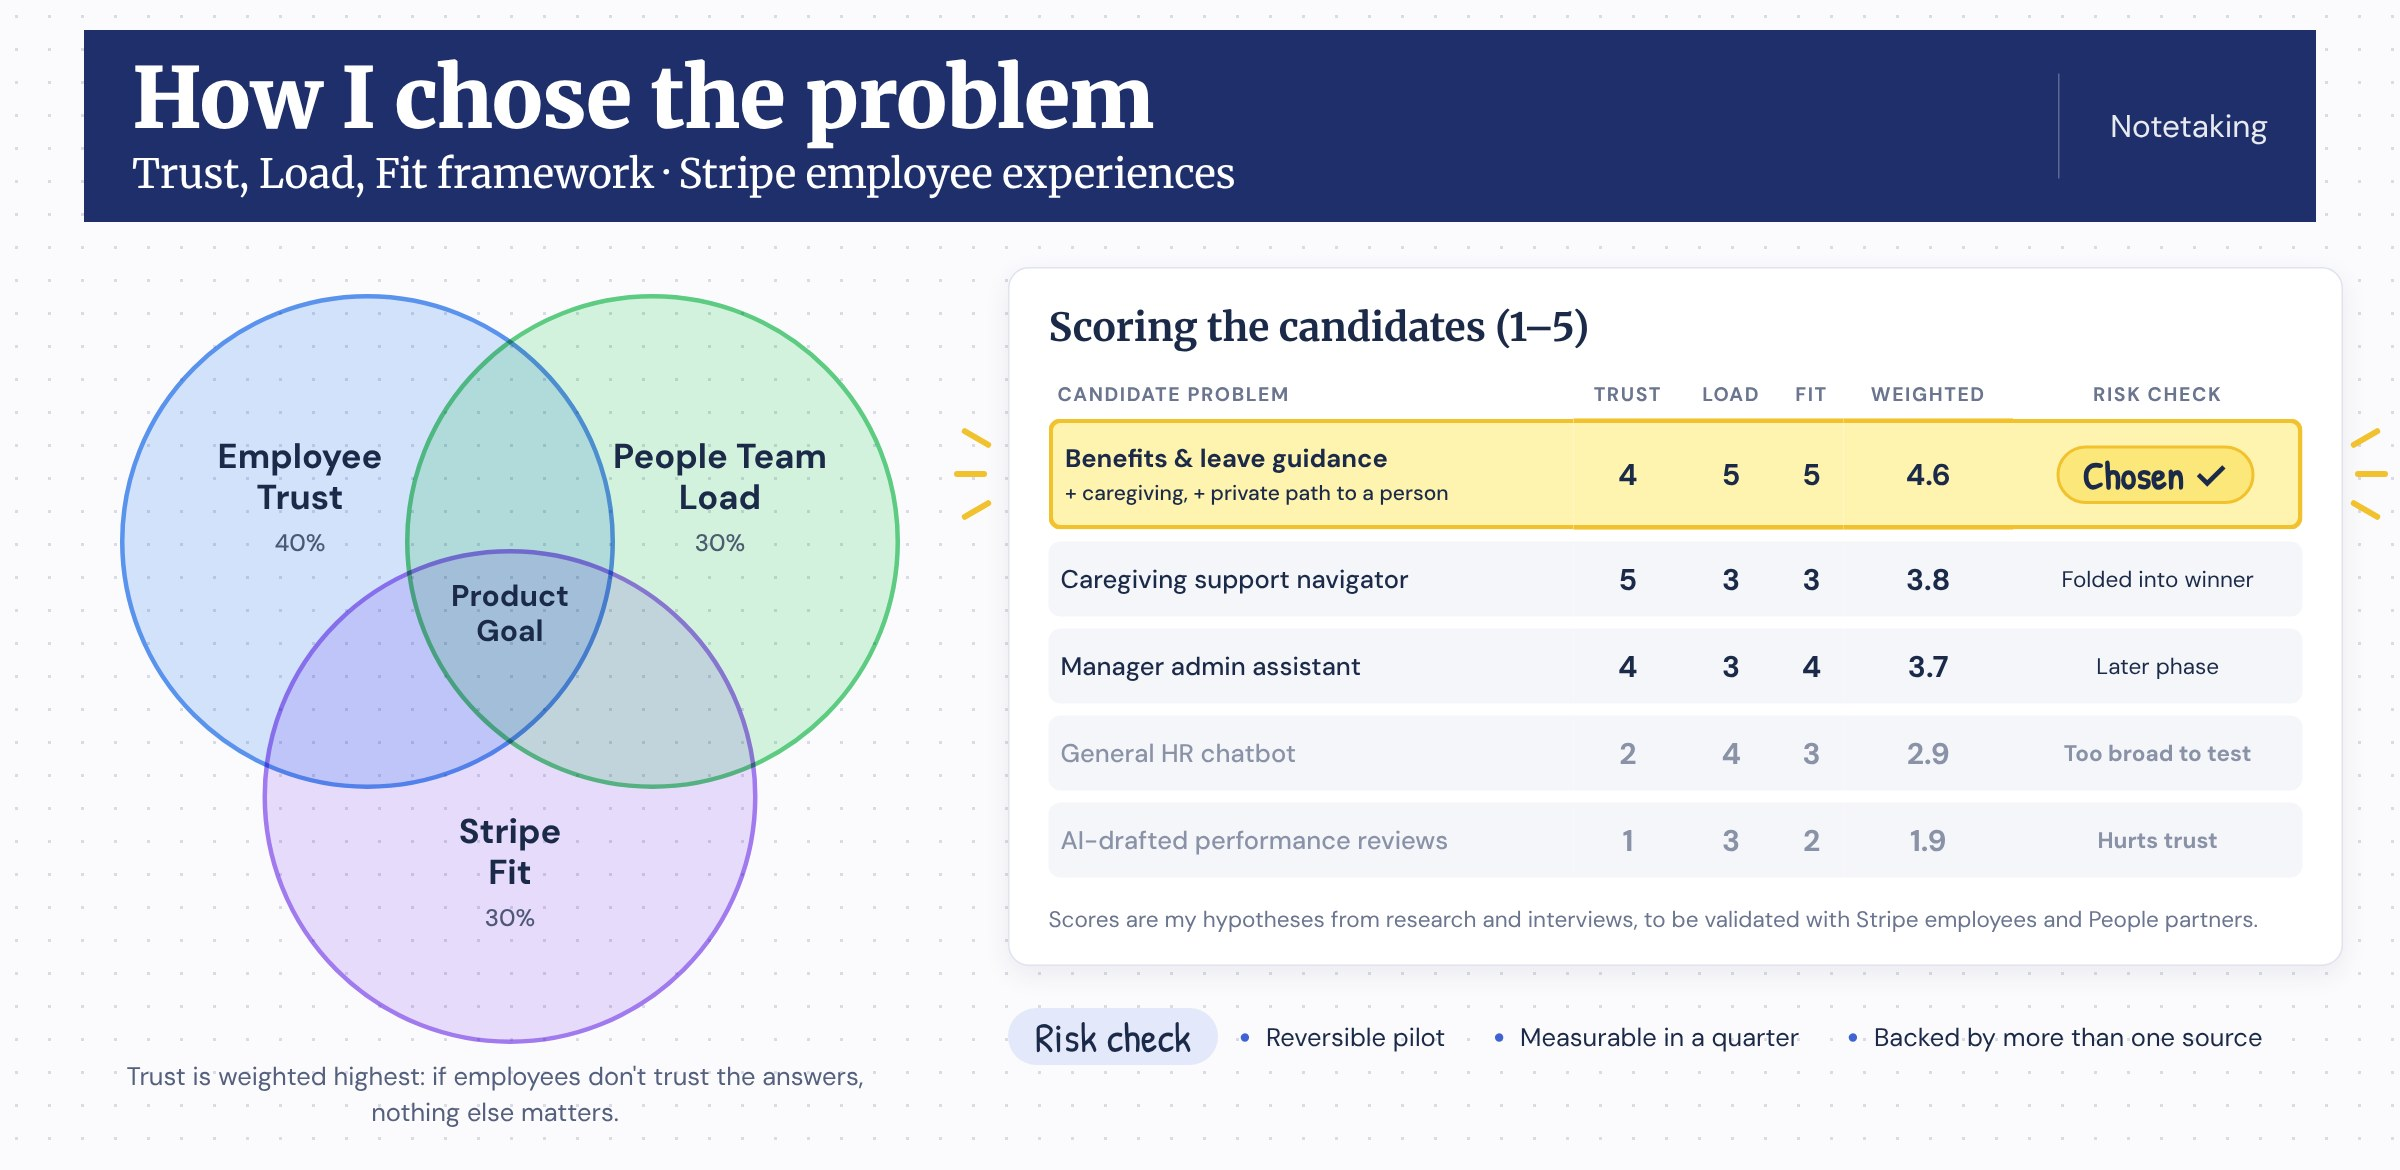
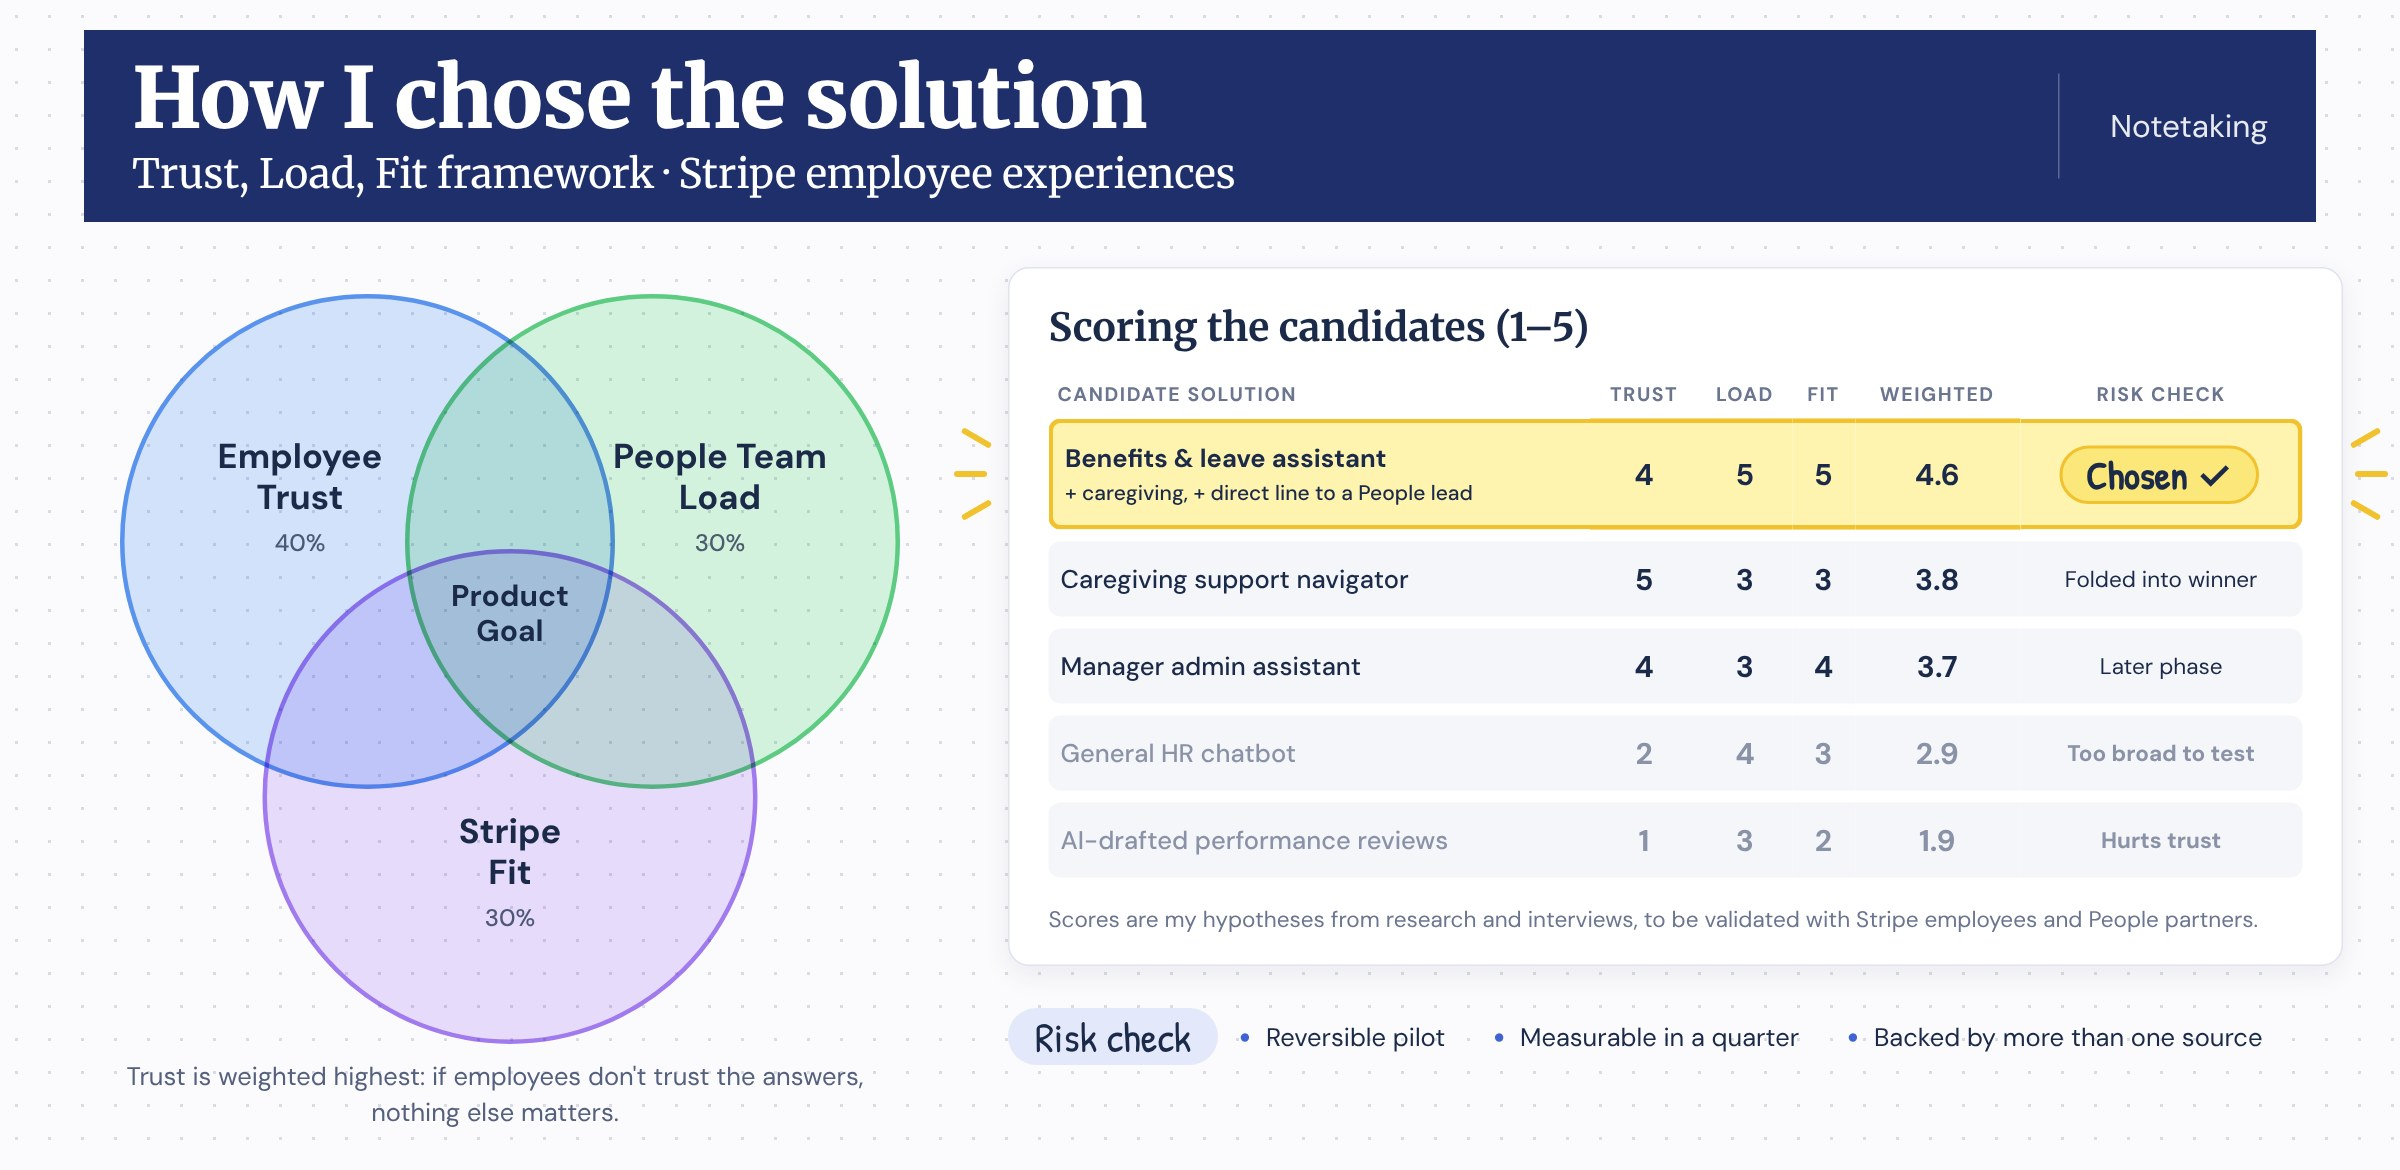
Separate problem (research board) from solution (framework) in Stripe draft
Claude-Session: https://claude.ai/code/session_01XF7k1YqiAUVVFY4gitzFxY

diff --git a/stripe.html b/stripe.html
@@ -44,7 +44,7 @@ a{color:#FDF6DC}a:hover{color:#F4AE55}
 <div style="display: flex; align-items: center; justify-content: space-between; gap: 56px; flex-wrap: wrap">
 <div style="display: flex; flex-direction: column; gap: 14px; max-width: 760px; flex: 1 1 480px">
 <span style="font-family: 'DM Sans', sans-serif; font-size: 13px; font-weight: 700; letter-spacing: 0.14em; text-transform: uppercase; color: #F4AE55">PRODUCT STRATEGY CASE STUDY</span>
-<h1 style="margin: 0; font-family: 'Instrument Serif', serif; font-weight: 400; font-size: 56px; line-height: 1.05">Trustworthy People answers for employees, and a private path when it matters</h1>
+<h1 style="margin: 0; font-family: 'Instrument Serif', serif; font-weight: 400; font-size: 56px; line-height: 1.05">Trustworthy People Team answers for employees, and a private path when it matters</h1>
 </div>
 <figure style="margin: 0; flex: 0 0 auto"><img src="images/stripe/cover.jpg" alt="Two colleagues working together on a laptop on bright, cushioned stadium seating in an office" width="324" height="405" style="display: block; width: 324px; max-width: 100%; height: auto; aspect-ratio: 432 / 540; border-radius: 16px; box-shadow: 0 18px 40px rgba(10,25,45,0.35)"></figure>
 </div>
@@ -68,7 +68,7 @@ a{color:#FDF6DC}a:hover{color:#F4AE55}
 
 <h2 style="margin: 56px 0 0; display: flex; gap: 20px; align-items: baseline; font-family: 'DM Sans', sans-serif; font-weight: 500; font-size: 34px; line-height: 1.2; color: #2E5A81"><span style="font-family: 'Instrument Serif', serif; font-weight: 400; font-size: 44px; color: #C8403F">02</span>Research signals</h2>
 <p style="margin: 0; font-size: 20px; line-height: 1.75; color: #1F3F5C">I pulled from SHRM, Gartner, Korn Ferry, and several workplace surveys. I interviewed three people: a claims specialist at a healthcare billing company in Chicago, a marketing operations manager at an IT company in Germany, and a battalion chief who manages about 250 people at a public-sector fire department. I also wrote 11 simulated employee personas to form hypotheses. I put each signal on a sticky note, color-coded by source, and sorted until patterns showed up.</p>
-<figure style="margin: 12px 0; display: flex; flex-direction: column; gap: 10px"><img src="images/stripe/research-board.jpg" alt="Research board of sticky notes sorted into how employees look for help: checks online first, goes straight to a person, or holds back and goes outside. Additional signals lead to two problem areas, answers people can rely on and safe to ask, and a prioritized problem: employees need trustworthy answers on benefits and leave, plus a private path to a person." width="2400" height="1350" style="width: 100%; height: auto; display: block; border-radius: 12px; border: 1px solid #E6DDCB"></figure>
+<figure style="margin: 12px 0; display: flex; flex-direction: column; gap: 10px"><img src="images/stripe/research-board.jpg" alt="Research board of sticky notes sorted into how employees look for help: checks online first, goes straight to a person, or holds back and goes outside. Additional signals lead to two problem areas, answers people can rely on and safe to ask, and a prioritized problem: employees can't easily get trustworthy benefits and leave answers, or privately reach the right person." width="2400" height="1290" style="width: 100%; height: auto; display: block; border-radius: 12px; border: 1px solid #E6DDCB"></figure>
 <p style="margin: 0; font-size: 20px; line-height: 1.75; color: #1F3F5C">The clearest pattern was how people look for help:</p>
 <ul style="margin: 0; padding-left: 24px; display: flex; flex-direction: column; gap: 12px; font-size: 20px; line-height: 1.75; color: #1F3F5C"><li><strong>Checks online first:</strong> looks it up, and only contacts a person if that fails. They need answers they can trust are current.</li><li><strong>Goes straight to a person:</strong> emails or files a ticket right away. They need to reach the right person without being bounced between teams.</li><li><strong>Holds back or goes outside:</strong> avoids asking HR because they're worried who will find out. They need a private way to ask.</li></ul>
 <p style="margin: 0; font-size: 20px; line-height: 1.75; color: #1F3F5C">The secondary research backed this up. Employees resolve only about half of their HR needs on their own, and only 42% trust their employer to use AI in a way that benefits them.</p>
@@ -77,12 +77,13 @@ a{color:#FDF6DC}a:hover{color:#F4AE55}
 <p style="margin: 0; font-size: 20px; line-height: 1.75; color: #1F3F5C">Her magic wand was more transparency about how things work inside the company.</p>
 <p style="margin: 0; font-size: 20px; line-height: 1.75; color: #1F3F5C">The battalion chief mostly contacts HR about his people: personnel records, payroll checks, and leave cases. He emails on purpose, so there's a record. All three drew the same line for AI: facts, rules, and simple lookups are fine, but a person should handle anything specific to their situation. As the chief put it, “people have people problems.”</p>
 <p style="margin: 0; font-size: 20px; line-height: 1.75; color: #1F3F5C">Because my real sample is small, I treat the simulated findings as directional until I can test them with more people.</p>
+<p style="margin: 0; font-size: 20px; line-height: 1.75; color: #1F3F5C">That led me to one problem: <strong>Employees can't easily get trustworthy answers to benefits and leave questions, or privately reach the right person when the topic is sensitive.</strong></p>
 
-<h2 style="margin: 56px 0 0; display: flex; gap: 20px; align-items: baseline; font-family: 'DM Sans', sans-serif; font-weight: 500; font-size: 34px; line-height: 1.2; color: #2E5A81"><span style="font-family: 'Instrument Serif', serif; font-weight: 400; font-size: 44px; color: #C8403F">03</span>Narrowing the problem: a framework</h2>
-<p style="margin: 0; font-size: 20px; line-height: 1.75; color: #1F3F5C">I scored five candidate problems on three lenses: employee trust, People team workload, and fit with Stripe's goals. Trust gets the most weight, because if employees don't trust the answers, nothing else matters. Every candidate also had to pass a risk check: a reversible pilot, measurable within a quarter, and backed by more than one source.</p>
-<figure style="margin: 12px 0; display: flex; flex-direction: column; gap: 10px"><img src="images/stripe/framework.jpg" alt="Trust, Load, Fit framework: a Venn diagram of Employee Trust (40%), People Team Load (30%), and Stripe Fit (30%), next to a scorecard. Benefits and leave guidance scores highest at 4.6 and is highlighted as chosen. A general HR chatbot and AI-drafted performance reviews are rejected." width="2400" height="1170" style="width: 100%; height: auto; display: block; border-radius: 12px; border: 1px solid #E6DDCB"></figure>
+<h2 style="margin: 56px 0 0; display: flex; gap: 20px; align-items: baseline; font-family: 'DM Sans', sans-serif; font-weight: 500; font-size: 34px; line-height: 1.2; color: #2E5A81"><span style="font-family: 'Instrument Serif', serif; font-weight: 400; font-size: 44px; color: #C8403F">03</span>Choosing a solution: a framework</h2>
+<p style="margin: 0; font-size: 20px; line-height: 1.75; color: #1F3F5C">With the problem clear, I scored five possible solutions on three lenses: employee trust, People team workload, and fit with Stripe's goals. Trust gets the most weight, because if employees don't trust the answers, nothing else matters. Every candidate also had to pass a risk check: a reversible pilot, measurable within a quarter, and backed by more than one source.</p>
+<figure style="margin: 12px 0; display: flex; flex-direction: column; gap: 10px"><img src="images/stripe/framework.jpg" alt="How I chose the solution: a Trust, Load, Fit Venn diagram (Employee Trust 40%, People Team Load 30%, Stripe Fit 30%) next to a scorecard of five candidate solutions. A benefits and leave assistant scores highest at 4.6 and is chosen. A general HR chatbot and AI-drafted performance reviews are rejected." width="2400" height="1170" style="width: 100%; height: auto; display: block; border-radius: 12px; border: 1px solid #E6DDCB"></figure>
 <p style="margin: 0; font-size: 20px; line-height: 1.75; color: #1F3F5C">The rejected options mattered as much as the winner. A general HR chatbot was too broad to test well, and AI-drafted performance reviews would save time but hurt trust.</p>
-<p style="margin: 0; font-size: 20px; line-height: 1.75; color: #1F3F5C">That led me to one problem: <strong>Employees need trustworthy answers to benefits and leave questions, and a private way to reach a person when the topic is sensitive.</strong></p>
+<p style="margin: 0; font-size: 20px; line-height: 1.75; color: #1F3F5C">That pointed to one clear direction: <strong>a benefits and leave assistant for routine questions, with a direct line to a People lead for anything sensitive.</strong></p>
 
 <h2 style="margin: 56px 0 0; display: flex; gap: 20px; align-items: baseline; font-family: 'DM Sans', sans-serif; font-weight: 500; font-size: 34px; line-height: 1.2; color: #2E5A81"><span style="font-family: 'Instrument Serif', serif; font-weight: 400; font-size: 44px; color: #C8403F">04</span>What I got wrong at first</h2>
 <p style="margin: 0; font-size: 20px; line-height: 1.75; color: #1F3F5C">I assumed privacy only mattered for the most serious cases, like reporting harassment. The research suggested it's much broader. People held back on asking about an internal move, a pregnancy they hadn't announced, or medical leave, because they didn't know who would see the question.</p>
